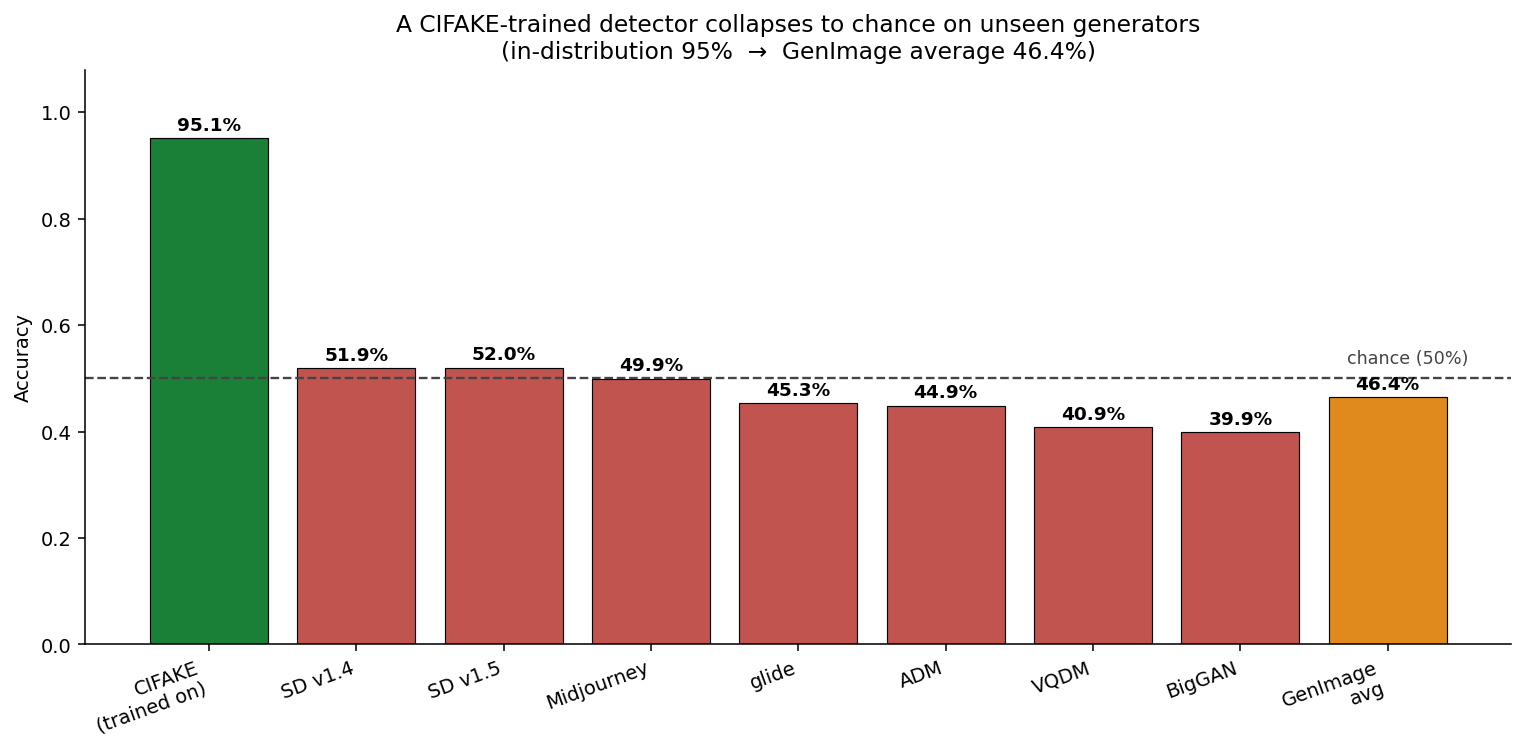
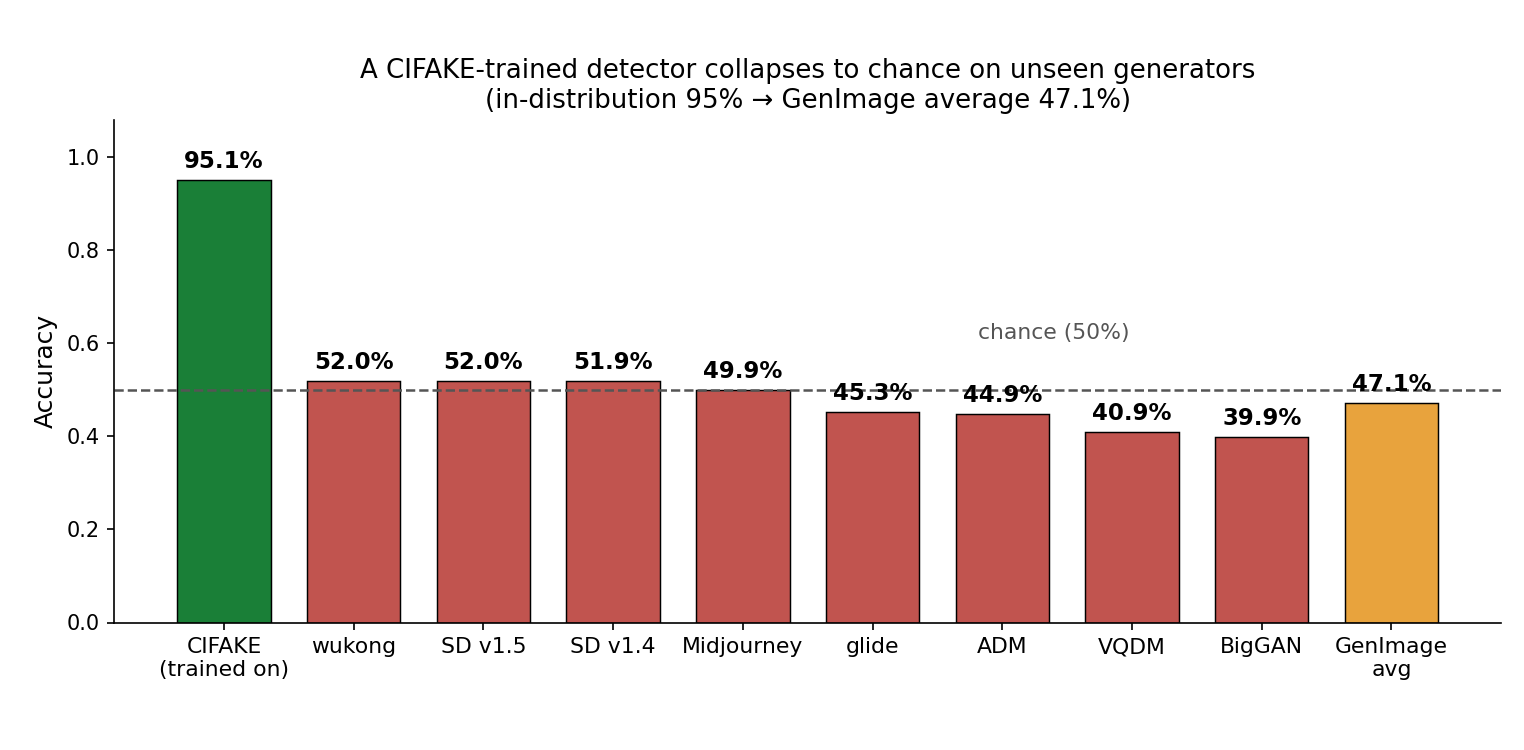
Updated files with the correct numbers

diff --git a/README.md b/README.md
@@ -1,28 +1,163 @@
 # Discerning the Synthetic
-*Cross-generator detection of AI-generated images, with an interactive human-vs-model game.*
 
-**[▶ Play the game in your browser](https://lwurtzel.github.io/Discerning-the-Synthetic/)**
+*Can a neural network tell real photos from AI-generated images — even from generators it has never seen?*
+
+**[▶ Play the human-vs-model game in your browser](https://lwurtzel.github.io/Discerning-the-Synthetic/)**
 
 ![Model comparison across generators](cifake_vs_genimage_generalization.png)
 
-*A detector trained on a single generator collapses to chance on unseen generators (red); a detector trained across multiple generators generalizes far better (green). ★ marks generators the given model trained on.*
-
-## Repository contents
-- **`CIFAKE_CNN.ipynb`** — notebook used to train a CNN on the CIFAKE dataset (single-generator baseline).
-- **`Genimage_CNN.ipynb`** — note book used to train a ResNet50V2 CNN across multiple GenImage generators.
-- **`spot_the_ai_game_all_generators.ipynb`** — the human-vs-model game as a self-contained notebook (auto-downloads the model and images).
-- **`docs/`** — the browser-based game (served via GitHub Pages).
-- **`cifake_vs_genimage_generalization.png`, `cifake_to_genimage_collapse.png`** — result figures.
-- **Analysis figures** — `confusion_matrix.png` (2×2: the model is cautious, catching only about 61% of fake images but 96% of real images), `source_breakdown.png` (9×2 per-generator: fakes from unseen generators like ADM/VQDM/Midjourney slip through the most often), and `gradcam.png` (interpretability: the detector attends to the rendered subject, not the background). Discussed in detail in the slides.
-- **Slides** — presentation covering the problem, approach, and findings.
-
-
-## Models
-The trained CNNs are attached as assets under **[Releases](https://github.com/LWurtzel/Discerning-the-Synthetic/releases)** (too large for the repo). The notebooks and the website download them automatically.
-
-## Datasets
-- **CIFAKE** — [kaggle.com/datasets/birdy654/cifake-real-and-ai-generated-synthetic-images](https://www.kaggle.com/datasets/birdy654/cifake-real-and-ai-generated-synthetic-images)
-- **GenImage** — [github.com/GenImage-Dataset/GenImage](https://github.com/GenImage-Dataset/GenImage) · per-generator Kaggle mirror: [github.com/vtphatt2/GenImage-mirror](https://github.com/vtphatt2/GenImage-mirror)
+*A detector trained on a single generator (red) collapses to chance on generators it never saw; a detector trained across multiple generators (green) generalizes far better, though it still dips significantly on unseen generators. ★ marks the generators each model was actually trained on.*
 
 ---
-*Claude Opus 4.8 assisted in creating several of the games, figures, and the GenImage model.*
+
+## TL;DR
+
+I built two "AI-image detectors" and stress-tested how well they **generalize to image generators they were never trained on**, which is what actually matters, since new AI image generators appear constantly.
+
+- A from-scratch CNN trained on **CIFAKE** (one generator, Stable Diffusion 1.4) reaches **~95% accuracy** on held-out data from that same generator — but that accuracy **collapses to ~47% (worse than guessing) on eight other generators.** It learned one generator's fingerprint, not a general idea of what is "AI-generated."
+- A **ResNet50V2** transfer-learning model trained across **three** generators from the larger **GenImage** dataset generalizes much better — **~79% average accuracy across all eight generators** — but still reaches lower accuracies on the generators it didn't train on.
+- The failure is **systematic, not random:** the stronger model is cautious. It gets **96% of real photos correct**, but catches only **~61% of fakes**, and the fakes it misses come overwhelmingly from **unseen generators** which it labels "real."
+- You can trade off which errors it makes by moving the decision threshold, but **generalization across generators is the real challenge, not raw accuracy on one.**
+- The Grad-CAM image showcases the parts of the image that the model focuses on to make decisions; mainly the main subject and not the background.
+
+---
+
+## Motivation
+
+Modern image generators such as Stable Diffusion, Midjourney, DALL·E, and many other new ones, are able to produce images that most people cannot flag by eye. A detector that only recognizes the specific generator it was trained on is close to useless in practice, because the generator that matters tomorrow is one that didn't exist yesterday.
+
+So the question this project asks is not "can a CNN reach high accuracy on a fixed dataset?" (it can, easily) but **"does that accuracy survive contact with a generator the model has never seen?"** That single shift from in-distribution accuracy to **cross-generator generalization** is the whole story.
+
+---
+
+## Approach
+
+**Two datasets, two models, one test.**
+
+| | Dataset | Model | Trained on | Tested on |
+|---|---|---|---|---|
+| **Baseline** | CIFAKE (32×32) | CNN from scratch | Stable Diffusion 1.4 only | all 8 GenImage generators |
+| **Stronger** | GenImage (224px) | ResNet50V2 transfer learning | SD 1.4, glide, BigGAN | all 8 GenImage generators |
+
+The experimental idea is the same for both: **train on some generators, evaluate on generators held out entirely from training.** The gap between in-distribution and out-of-distribution accuracy is the measure of generalization.
+
+Everything was built with **TensorFlow / Keras**, using a cached `tf.data` input pipeline, and trained on a **Google Colab T4 GPU**.
+
+---
+
+## Findings
+
+### 1. A single-generator detector works, but then collapses
+
+![CIFAKE detector collapse](cifake_to_genimage_collapse.png)
+
+The CIFAKE-trained CNN scores **95.1%** on held-out CIFAKE images (Stable Diffusion 1.4). Pointed at eight other generators it never saw, its accuracy falls to a **~47% average — at or below chance.** A detector that does worse than a coin flip on unseen generators has not learned "what AI images look like"; it has memorized the fingerprint of one generator.
+
+### 2. Training across generators generalizes better
+
+See the header figure. Retraining a **ResNet50V2** across three generators (SD 1.4, glide, BigGAN — marked ★) lifts accuracy on **every** generator relative to the CIFAKE model, reaching **~79% average across all eight.** The trained generators are near-ceiling (90–98%); the story is the **unseen** generators — still well above the old model and above chance, but clearly lower (ADM 64%, VQDM 61%, Midjourney 62%). Generalization improved, but was not solved.
+
+### 3. How it fails: it defaults to "real"
+
+<p align="center">
+  <img src="simple_confusion_matrix.png" width="46%">
+  <img src="source_breakdown.png" width="46%">
+</p>
+
+Across 100,000 validation images, the GenImage model is **cautious**: it is correct on **96% of real photos** but catches only **~61% of fakes.** The per-generator breakdown (right) shows *why* — fakes from the generators it never trained on (**ADM, VQDM, Midjourney**) are misclassified as "real" roughly **70% of the time.** When the model is unsure, it guesses "real," so unseen generators slip through.
+
+### 4. The lever: the decision threshold
+
+![Threshold tradeoff](threshold_tradeoff.jpg)
+
+Because missed fakes get labeled "real," raising the bar for a "real" verdict catches more fakes — at a cost to real-photo accuracy. There is no free lunch:
+
+| Threshold | Fakes caught | Reals correct | Overall |
+|---|---|---|---|
+| 0.50 (default) | 64% | 96% | ~80% |
+| 0.80 | 77% | 88% | ~82% |
+
+Tuning the threshold picks **which errors you make**; it does not teach the model anything new about unseen generators.
+
+### 5. What is it looking at?
+
+![Grad-CAM](gradcam.png)
+
+Grad-CAM highlights the pixels that drove each prediction. The detector attends to the **rendered subject itself** — the object's textures and edges — rather than the background, reading generation artifacts in how the object was drawn. (This is a nice contrast with the low-resolution CIFAKE literature, which found background cues mattered more at 32×32.)
+
+---
+
+## Repository contents
+
+Everything needed to reproduce the results, run the demo, and read the analysis.
+
+### Notebooks
+
+- **`CIFAKE_CNN.ipynb`** — Trains the single-generator baseline: a convolutional neural network built and trained from scratch on the CIFAKE dataset (60k real CIFAR-10 images + 60k Stable Diffusion 1.4 fakes, 32×32). Covers the data pipeline, model definition, training loop, the ~95% in-distribution result, and the cross-generator evaluation that produces the collapse figure.
+- **`Genimage_CNN.ipynb`** — Trains the stronger model: a ResNet50V2 transfer-learning classifier on the GenImage dataset at 224px, trained across three generators and evaluated on all eight. Also contains the analysis that generates the confusion matrix, the per-generator source breakdown, the threshold-tradeoff sweep, and the Grad-CAM interpretability panels.
+- **`spot_the_ai_game_all_generators.ipynb`** — A self-contained version of the human-vs-model game as a notebook. It auto-downloads the trained model and a set of sample images from the GitHub Release, then lets a person guess real vs. fake alongside the model's prediction, tallying both scores.
+
+### Browser game — `docs/`
+
+Served via GitHub Pages at **[lwurtzel.github.io/Discerning-the-Synthetic](https://lwurtzel.github.io/Discerning-the-Synthetic/)**. Runs entirely in the browser with no install and no server.
+
+- **`docs/index.html`** — The game. Loads the model with **TensorFlow.js** and runs inference **on-device**. Each play is 10 rounds drawn from a balanced pool of real and AI images; you and the model both guess, and it keeps score. Images from generators the model *trained* on vs. ones it *didn't* are flagged in the reveal, so you can watch its accuracy drop on unseen generators.
+- **`docs/model/`** — The TensorFlow.js graph model (converted from the Keras model) plus its weight shards.
+- **`docs/images/`** — The sample images the game serves.
+- **`docs/manifest.json`** — Index of the game images with their true labels and source generator.
+
+### Result & analysis figures
+
+- **`cifake_vs_genimage_generalization.png`** — The headline comparison: CIFAKE model (red) vs. GenImage model (green) on all eight generators, with the trained generators starred.
+- **`cifake_to_genimage_collapse.png`** — The CIFAKE model alone, showing the 95% → ~47% collapse on unseen generators.
+- **`simple_confusion_matrix.png`** — 2×2 confusion matrix for the GenImage model over 100k validation images (cautious: 96% of reals correct, ~61% of fakes caught).
+- **`source_breakdown.png`** — Per-generator breakdown of how each source is classified; shows unseen fakes slipping through as "real."
+- **`threshold_tradeoff.jpg`** — Fake-catch rate vs. real-photo accuracy as the decision threshold sweeps from 0.5 to 1.0.
+- **`gradcam.png`** — Grad-CAM interpretability panels showing where the model looks.
+
+### Other
+
+- **`LICENSE`** — MIT for the original code; note that the GenImage-derived images and model retain their source license (CC BY-NC-SA, non-commercial). See the file for details.
+- **`Slides.pptx`** — the capstone presentation deck (see [Presentation](#presentation)).
+
+### Models — [Releases](https://github.com/LWurtzel/Discerning-the-Synthetic/releases)
+
+The trained CNNs are too large for the repo and are attached as assets on the Releases page. The notebooks and the website download them automatically, so you normally don't need to fetch them by hand.
+
+---
+
+## Reproduce it yourself
+
+1. **Get the data.** Download CIFAKE and/or the GenImage validation mirror from the links under [Datasets](#datasets). The notebooks expect a Kaggle API key; credentials are read at runtime (never commit `kaggle.json`).
+2. **Open the notebook** in Google Colab (recommended — free T4 GPU) or locally with a TensorFlow environment. Set the runtime to GPU.
+3. **Run top to bottom.** `CIFAKE_CNN.ipynb` reproduces the baseline and the collapse figure; `Genimage_CNN.ipynb` reproduces the stronger model and all the analysis figures.
+4. **Try the game** with no setup at the [live site](https://lwurtzel.github.io/Discerning-the-Synthetic/), or run `spot_the_ai_game_all_generators.ipynb` for the notebook version.
+
+---
+
+## Datasets
+
+- **CIFAKE** — 60k real (CIFAR-10) + 60k Stable Diffusion 1.4 fakes at 32×32. [kaggle.com/datasets/birdy654/cifake-real-and-ai-generated-synthetic-images](https://www.kaggle.com/datasets/birdy654/cifake-real-and-ai-generated-synthetic-images)
+- **GenImage** — eight generators (SD 1.4, SD 1.5, glide, ADM, VQDM, Midjourney, BigGAN, wukong) plus real photos, at native resolution. [github.com/GenImage-Dataset/GenImage](https://github.com/GenImage-Dataset/GenImage) · per-generator Kaggle mirror: [github.com/vtphatt2/GenImage-mirror](https://github.com/vtphatt2/GenImage-mirror)
+
+---
+
+## Limitations & future work
+
+- **Generalization, not accuracy, is the bottleneck.** The model is strong on generators it trained on and mediocre on ones it didn't. Closing that gap — by fine-tuning on more generators and adding newer ones (SDXL, DALL·E 3, Flux) — is the obvious next step.
+- **Clean-image evaluation.** These results are on relatively clean images. Real-world images are compressed, resized, and re-saved; a robustness study (and adversarial stress-testing) would show how much of this accuracy survives.
+- **Calibration.** The model's confidence isn't calibrated, which is why a single threshold is a blunt instrument. Better-calibrated outputs would make deployment (e.g., as a browser extension) more trustworthy.
+
+---
+
+## Presentation
+
+The capstone talk walks through the same story — problem, approach, the collapse-and-generalize arc, the failure analysis, and a live demo of the game. See **`Slides.pptx`** in this repo.
+
+---
+
+## Acknowledgements
+
+Datasets courtesy of the CIFAKE and GenImage authors (see Datasets).
+
+Claude (Anthropic) acted as a coding and design collaborator throughout the project. Its help included: shaping the cross-generator generalization experiment; debugging the `tf.data` input pipeline and training setup; producing the analysis figures (the comparison chart, collapse plot, confusion matrix, per-generator source breakdown, threshold-tradeoff sweep, and Grad-CAM panels); assisting the building of the interactive human-vs-model games and the TensorFlow.js browser deployment; helping design and build the capstone presentation deck; and contributing this README. All model training, decisions, and final review were done by the author.